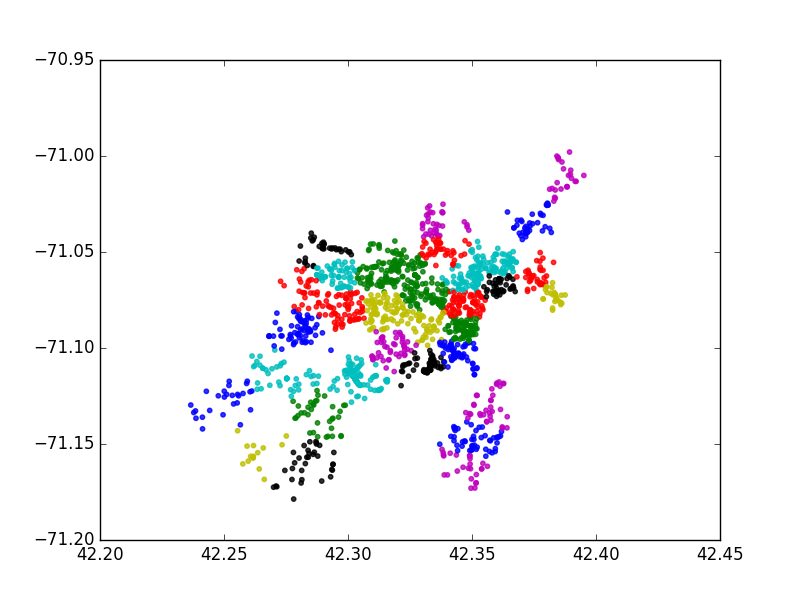
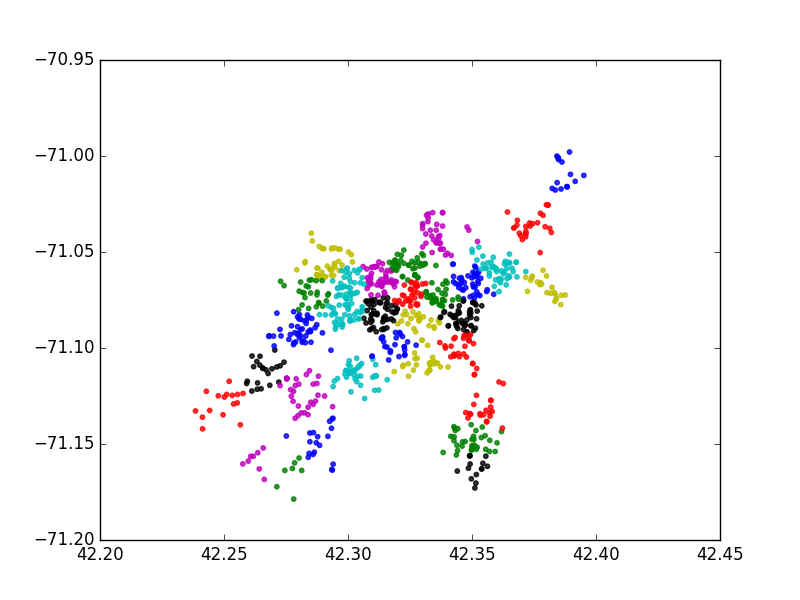
trial options

Changed region(s): [[0.2188, 0.33, 0.7188, 0.84], [0.6875, 0.24, 0.7188, 0.33]]

diff --git a/ebrakke_twaltze/311_requests.py b/ebrakke_twaltze/311_requests.py
@@ -4,6 +4,12 @@ import datetime
 import urllib.request
 import time
 import uuid
+import prov.model
+import dml
+import datetime
+import urllib.request
+import time
+import uuid
 import sys
 import json
 
@@ -26,16 +32,28 @@ def service_calls():
 	max_requests = 50000
 	url = '{}resource/wc8w-nujj.json?$limit={}&$offset={}&$$app_token={}'
 	start_time = datetime.datetime.now()
-	while True:
-		this_request = url.format(auth['service'], max_requests, offset, auth['token'])
-		print(this_request)
-		response = urllib.request.urlopen(this_request).read().decode('utf-8')
-		r = json.loads(response)
-		if len(r) == 0:
-			break
-		repo['ebrakke_twaltze.serviceCalls'].insert_many(r)
-		offset += max_requests
-		time.sleep(2)
+	if dml.options.trial:
+                while True:
+                        this_request = url.format(auth['service'], max_requests, offset, auth['token'])
+                        print(this_request)
+                        response = urllib.request.urlopen(this_request).read().decode('utf-8')
+                        r = json.loads(response)
+                        repo['ebrakke_twaltze.serviceCalls'].insert_many(r)
+                        offset += max_requests
+                        if offset >= 50000:
+                                break
+                        time.sleep(2)
+	else:
+                while True:
+                        this_request = url.format(auth['service'], max_requests, offset, auth['token'])
+                        print(this_request)
+                        response = urllib.request.urlopen(this_request).read().decode('utf-8')
+                        r = json.loads(response)
+                        if len(r) == 0:
+                                break
+                        repo['ebrakke_twaltze.serviceCalls'].insert_many(r)
+                        offset += max_requests
+                        time.sleep(2)
 	end_time = datetime.datetime.now()
 
 	do_prov()

diff --git a/ebrakke_twaltze/pothole_filter.py b/ebrakke_twaltze/pothole_filter.py
@@ -6,9 +6,7 @@ import uuid
 import sys
 import subprocess
 
-exec(open('../pymongo_dm.py').read())
-
-client = pymongo.MongoClient()
+client = dml.pymongo.MongoClient()
 repo = client.repo
 repo.authenticate('ebrakke_twaltze', 'ebrakke_twaltze')
 
